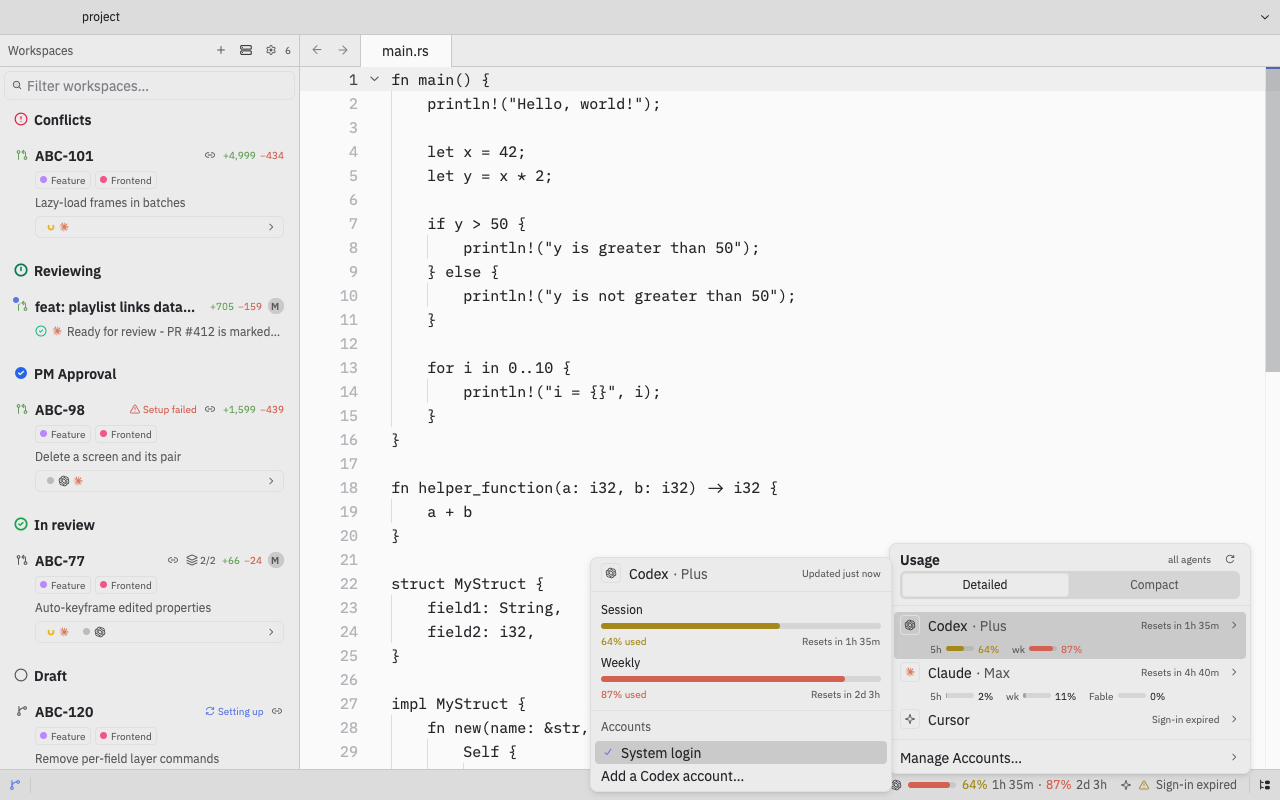
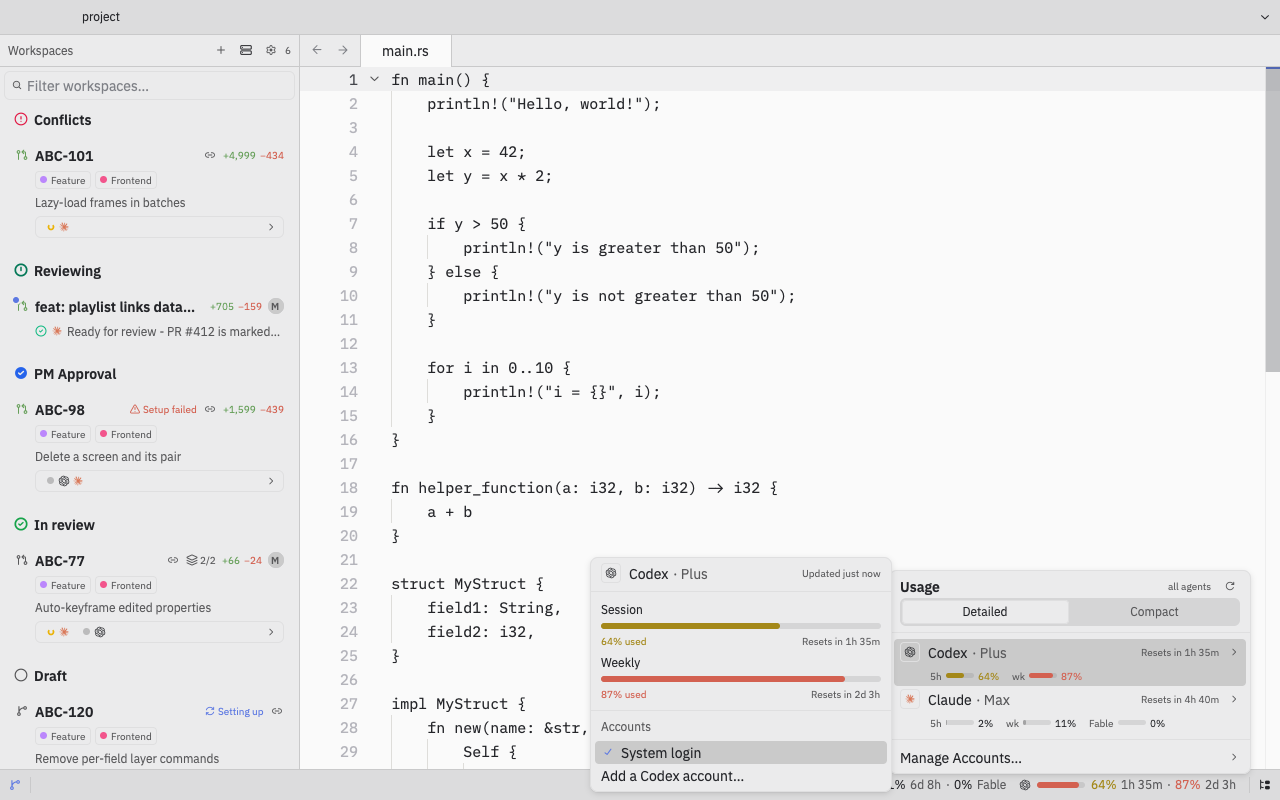
Drop Cursor from the usage view

Changed region(s): [[0.6875, 0.6875, 0.9688, 0.9062], [0.6875, 0.9688, 0.9688, 1.0]]

diff --git a/crates/icarus-server/src/usage.rs b/crates/icarus-server/src/usage.rs
@@ -18,7 +18,7 @@ const TIMEOUT: Duration = Duration::from_secs(10);
 pub const FRESH_FOR_MS: u64 = 3 * 60 * 1000;
 pub const SESSION_MINUTES: u64 = 300;
 pub const WEEK_MINUTES: u64 = 10_080;
-pub const PROVIDERS: [&str; 3] = ["claude", "codex", "cursor"];
+pub const PROVIDERS: [&str; 2] = ["claude", "codex"];
 
 #[derive(Debug, Clone, PartialEq, Serialize)]
 pub struct Window {
@@ -79,8 +79,7 @@ pub fn usage(
     }
     let fetched = match provider {
         "claude" => fetch_claude(home),
-        "codex" => fetch_codex(home),
-        _ => fetch_cursor(now_ms),
+        _ => fetch_codex(home),
     };
     let usage = settle(provider, account, fetched, previous, now_ms);
     if let Ok(mut cache) = cache().lock() {
@@ -482,123 +481,6 @@ fn fetch_codex(home: Option<&Path>) -> Fetched {
     Ok(parse_codex(&body))
 }
 
-// Cursor
-
-fn cursor_token() -> Option<String> {
-    keychain("cursor-access-token", "cursor-user")
-        .or_else(|| {
-            let auth = std::fs::read_to_string(home_dir().join(".cursor/auth.json")).ok()?;
-            let auth: Value = serde_json::from_str(&auth).ok()?;
-            auth["accessToken"]
-                .as_str()
-                .filter(|t| !t.is_empty())
-                .map(str::to_owned)
-        })
-        .or_else(|| {
-            let db = home_dir()
-                .join("Library/Application Support/Cursor/User/globalStorage/state.vscdb");
-            let connection = rusqlite::Connection::open_with_flags(
-                db,
-                rusqlite::OpenFlags::SQLITE_OPEN_READ_ONLY,
-            )
-            .ok()?;
-            connection
-                .query_row(
-                    "SELECT value FROM ItemTable WHERE key = 'cursorAuth/accessToken'",
-                    [],
-                    |row| row.get::<_, String>(0),
-                )
-                .ok()
-                .filter(|t| !t.is_empty())
-        })
-}
-
-fn jwt_claims(token: &str) -> Option<Value> {
-    use base64::Engine as _;
-    let payload = token.split('.').nth(1)?;
-    let bytes = base64::engine::general_purpose::URL_SAFE_NO_PAD
-        .decode(payload.trim_end_matches('='))
-        .ok()?;
-    serde_json::from_slice(&bytes).ok()
-}
-
-fn percent_encode(text: &str) -> String {
-    text.bytes()
-        .map(|b| {
-            if b.is_ascii_alphanumeric() || b"-_.~".contains(&b) {
-                (b as char).to_string()
-            } else {
-                format!("%{b:02X}")
-            }
-        })
-        .collect()
-}
-
-pub fn parse_cursor(body: &Value) -> (Option<String>, Vec<Window>) {
-    let plan = &body["individualUsage"]["plan"];
-    let used = match (plan["used"].as_f64(), plan["limit"].as_f64()) {
-        (Some(used), Some(limit)) if limit > 0.0 => Some(used / limit * 100.0),
-        _ => plan["totalPercentUsed"].as_f64(),
-    };
-    let start = timestamp_ms(&body["billingCycleStart"]);
-    let end = timestamp_ms(&body["billingCycleEnd"]);
-    let windows = used
-        .filter(|_| plan["enabled"].as_bool() != Some(false))
-        .map(|used| Window {
-            key: "monthly",
-            used_percent: clamp_percent(used),
-            window_minutes: match (start, end) {
-                (Some(start), Some(end)) if end > start => (end - start) / 60_000,
-                _ => 30 * 24 * 60,
-            },
-            resets_at_ms: end,
-        })
-        .into_iter()
-        .collect();
-    (
-        body["membershipType"].as_str().and_then(plan_label),
-        windows,
-    )
-}
-
-fn fetch_cursor(now_ms: u64) -> Fetched {
-    let token = cursor_token().ok_or((
-        Failure::NoLogin,
-        "No Cursor sign-in on this computer — sign in to Cursor or run `cursor-agent login`"
-            .to_owned(),
-    ))?;
-    let expired = (
-        Failure::Expired,
-        "Cursor sign-in expired — run `cursor-agent login` again".to_owned(),
-    );
-    let claims = jwt_claims(&token).ok_or_else(|| expired.clone())?;
-    if claims["exp"]
-        .as_u64()
-        .is_some_and(|exp| exp.saturating_mul(1000) <= now_ms)
-    {
-        return Err(expired);
-    }
-    let subject = claims["sub"].as_str().ok_or_else(|| expired.clone())?;
-    let cookie = format!(
-        "WorkosCursorSessionToken={}%3A%3A{token}",
-        percent_encode(subject)
-    );
-    let body = get_json(
-        "https://cursor.com/api/usage-summary",
-        &[
-            ("Cookie", &cookie),
-            ("Accept", "application/json"),
-            ("Origin", "https://cursor.com"),
-            ("Referer", "https://cursor.com/dashboard"),
-        ],
-    )
-    .map_err(|(failure, error)| match failure {
-        Failure::Expired => expired.clone(),
-        _ => (failure, error),
-    })?;
-    Ok(parse_cursor(&body))
-}
-
 #[cfg(test)]
 mod tests {
     use super::*;
@@ -658,21 +540,6 @@ mod tests {
             "secondary_window": null,
         } }));
         assert_eq!(weekly_only[0].key, "weekly");
-    }
-
-    #[test]
-    fn cursor_usage_is_the_plan_share_of_the_billing_cycle() {
-        let (plan, windows) = parse_cursor(&json!({
-            "membershipType": "pro",
-            "billingCycleStart": "1790000000000",
-            "billingCycleEnd": 1_792_592_000_000u64,
-            "individualUsage": { "plan": { "enabled": true, "used": 500, "limit": 2000, "totalPercentUsed": 99 } },
-        }));
-        assert_eq!(plan.as_deref(), Some("Pro"));
-        assert_eq!(windows[0].key, "monthly");
-        assert_eq!(windows[0].used_percent, 25.0);
-        assert_eq!(windows[0].window_minutes, 43_200);
-        assert_eq!(windows[0].resets_at_ms, Some(1_792_592_000_000));
     }
 
     #[test]
@@ -749,7 +616,6 @@ mod tests {
         assert_eq!(claude_keychain_service(None), "Claude Code-credentials");
         let managed = claude_keychain_service(Some(Path::new("/x")));
         assert_eq!(managed.len(), "Claude Code-credentials-".len() + 8);
-        assert_eq!(percent_encode("auth0|user_1"), "auth0%7Cuser_1");
         assert_eq!(plan_label("max-20x").as_deref(), Some("Max 20x"));
     }
 }

diff --git a/app/crates/icarus_ui/src/accounts.rs b/app/crates/icarus_ui/src/accounts.rs
@@ -87,7 +87,6 @@ impl UsageWindow {
             "session" => "Session",
             "weekly" => "Weekly",
             "fable" => "Fable",
-            "monthly" => "Monthly",
             other => other,
         }
     }
@@ -152,7 +151,7 @@ impl ProviderUsage {
         }
     }
 
-    /// The status bar's "percent label" pairs; a monthly window only shows when it is the only kind.
+    /// The status bar's "percent label" pairs.
     pub fn strip_sections(&self, now_ms: u64, compact: bool) -> Vec<(u32, String)> {
         if compact {
             return self
@@ -160,13 +159,8 @@ impl ProviderUsage {
                 .map(|w| vec![(w.percent(), w.strip_label(now_ms))])
                 .unwrap_or_default();
         }
-        let has_short = self
-            .windows
-            .iter()
-            .any(|w| w.key == "session" || w.key == "weekly");
         self.windows
             .iter()
-            .filter(|w| w.key != "monthly" || !has_short)
             .map(|w| (w.percent(), w.strip_label(now_ms)))
             .collect()
     }
@@ -176,7 +170,6 @@ pub(crate) fn provider_name(provider: &str) -> &str {
     match provider {
         "claude" => "Claude",
         "codex" => "Codex",
-        "cursor" => "Cursor",
         other => other,
     }
 }
@@ -955,11 +948,7 @@ fn provider_menu(
         .separator();
     for window in &usage.windows {
         let window = window.clone();
-        let title = if usage.provider == "cursor" {
-            "Plan".to_owned()
-        } else {
-            window.title().to_owned()
-        };
+        let title = window.title().to_owned();
         menu = menu.custom_row(move |_, cx| {
             v_flex()
                 .w_full()
@@ -1205,35 +1194,21 @@ mod tests {
         );
         assert_eq!(usage.strip_sections(0, true), [(11, "6d 8h".to_owned())]);
         assert_eq!(usage.headline().map(|w| w.key.as_str()), Some("weekly"));
-
-        let mut cursor = failed("cursor", "x");
-        cursor.failure = None;
-        cursor.windows = vec![window("monthly", 25.0, 43_200, None)];
-        assert_eq!(cursor.strip_sections(0, false), [(25, "30d".to_owned())]);
-        let mut mixed = claude(1.0);
-        mixed.windows.push(window("monthly", 90.0, 43_200, None));
-        assert_eq!(
-            mixed.strip_sections(0, false).len(),
-            3,
-            "monthly only shows alone"
-        );
     }
 
     #[test]
     fn providers_without_a_login_stay_hidden_and_the_roster_sorts_by_use() {
-        let expired = failed("cursor", "expired");
+        let expired = failed("codex", "expired");
         assert!(expired.worth_showing());
         assert_eq!(expired.status_label(), "Sign-in expired");
-        assert!(!failed("cursor", "no_login").worth_showing());
+        assert!(!failed("codex", "no_login").worth_showing());
 
-        let mut codex = claude(80.0);
-        codex.provider = "codex".into();
-        let usage = [claude(2.0), failed("cursor", "no_login"), expired, codex];
+        let usage = [failed("codex", "no_login"), expired, claude(2.0)];
         let order: Vec<&str> = roster_order(&usage)
             .iter()
             .map(|u| u.provider.as_str())
             .collect();
-        assert_eq!(order, ["codex", "claude", "cursor"]);
+        assert_eq!(order, ["claude", "codex"]);
     }
 
     fn source(

diff --git a/app/crates/zed/src/visual_test_runner.rs b/app/crates/zed/src/visual_test_runner.rs
@@ -1902,7 +1902,6 @@ fn icarus_usage_fixture() -> (
             { "key": "session", "used_percent": 64, "window_minutes": 300, "resets_at_ms": at(95) },
             { "key": "weekly", "used_percent": 87, "window_minutes": 10080, "resets_at_ms": at(2 * 1440 + 180) },
         ] },
-        { "provider": "cursor", "failure": "expired", "error": "Cursor sign-in expired — run `cursor-agent login` again" },
     ]);
     let accounts = serde_json::json!([
         { "id": "system", "provider": "claude", "label": "System login", "default": false },
